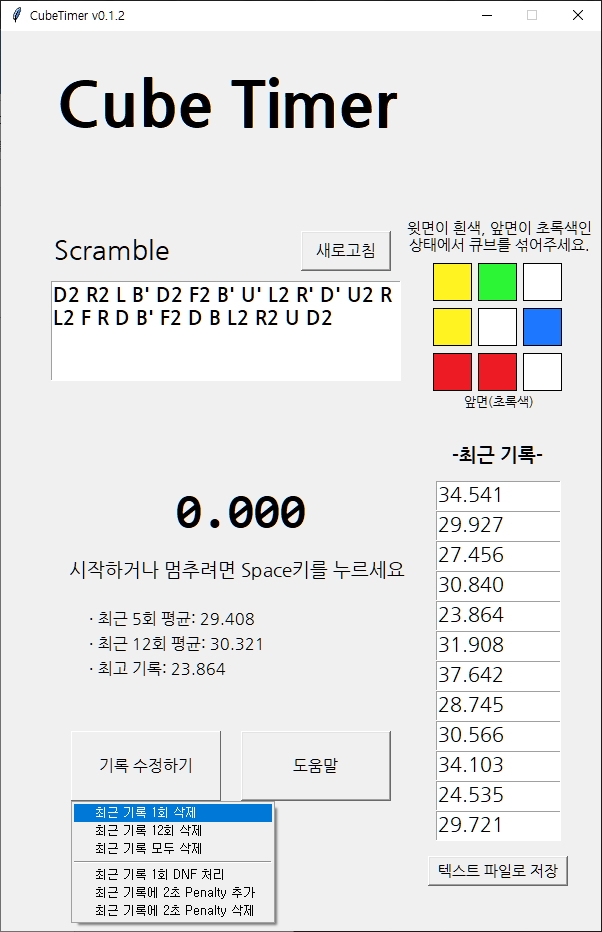
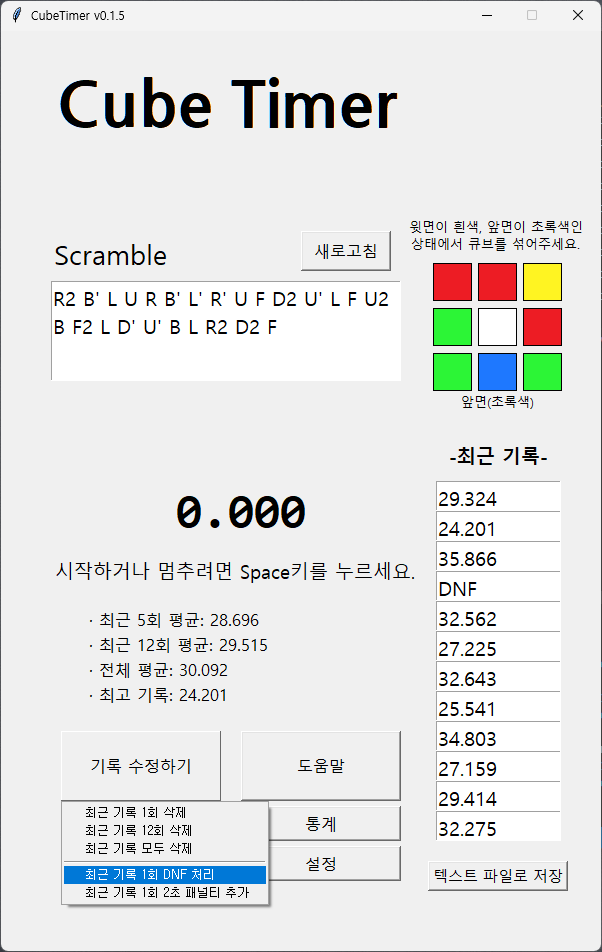
CubeTimer_v0.1.5

diff --git a/Cube_Timer.py b/Cube_Timer.py
@@ -1,5 +1,5 @@
 #-*- coding:utf-8 -*-
-# Cube_Timer v0.1.4 --------- by SnapFlip20
+# Cube_Timer v0.1.5 --------- by SnapFlip20
 
 import tkinter as tk
 from tkinter import messagebox
@@ -19,7 +19,7 @@ except ModuleNotFoundError:
     sys.stderr.write('Error: cannot find showScrambleImg.py.\n')
 
 # ---------------------------------------------------------------- #
-version = 'v0.1.4'
+version = 'v0.1.5'
 # -push.bat------------------------------------------------------- #
 def pusher(): # batch file generator for Github push
     fbat = open('push.bat', 'w')
@@ -148,7 +148,7 @@ def load_record():
         rec1, rec2, rec3, rec4, rec5, rec6, rec7, rec8, rec9, rec10, rec11, rec12
     
     record_info1 = tk.Label(mainWindow, font = ('맑은 고딕 bold', 14), text = '-최근 기록-')
-    record_info1.place(x = 448, y = 410)
+    record_info1.place(x = 445, y = 410)
 
     rec1 = tk.Text(mainWindow, font = ('맑은 고딕', 15), wrap = 'word', state = 'normal')
     rec1.place(x = 435, y = 450, width = 125, height = 30)
@@ -186,7 +186,8 @@ def load_record():
                 records.append('')
         
         for (i, j) in enumerate(records):
-            if j == 0: records[i] = 'DNF'
+            if j.rstrip() == '0':
+                records[i] = 'DNF'
         
         rec1.insert(tk.INSERT, records[0])
         rec1.configure(state = 'disabled')
@@ -249,7 +250,10 @@ def calcAvg5():
     global five_avgtxt
 
     avg5 = calc5()
-    five_avgtxt = tk.Label(mainWindow, font = ('맑은 고딕', 12), text = '· 최근 5회 평균: '+'%.3lf'%avg5)
+    if avg5 == 'DNF':
+        five_avgtxt = tk.Label(mainWindow, font = ('맑은 고딕', 12), text = '· 최근 5회 평균: D N F')
+    else:
+        five_avgtxt = tk.Label(mainWindow, font = ('맑은 고딕', 12), text = '· 최근 5회 평균: '+'%.3lf'%avg5)
     five_avgtxt.place(x = 85, y = 575)
 
 def calc12():
@@ -283,7 +287,10 @@ def calcAvg12():
     global twelve_avgtxt
 
     avg12 = calc12()
-    twelve_avgtxt = tk.Label(mainWindow, font = ('맑은 고딕', 12), text = '· 최근 12회 평균: '+'%.3lf'%avg12)
+    if avg12 == 'DNF':
+        twelve_avgtxt = tk.Label(mainWindow, font = ('맑은 고딕', 12), text = '· 최근 12회 평균: D N F')
+    else:
+        twelve_avgtxt = tk.Label(mainWindow, font = ('맑은 고딕', 12), text = '· 최근 12회 평균: '+'%.3lf'%avg12)
     twelve_avgtxt.place(x = 85, y = 600)
 
 def calcAvgall():
@@ -303,13 +310,22 @@ def calcAvgall():
             if len(all_record) == 0:
                 avgall = 0
             else:
-                avgall = statistics.mean(all_record)
+                if 0 in all_record:
+                    if len(all_record) == 1:
+                        avgall = 0
+                    else:
+                        avgall = sum(all_record)/(len(all_record)-1)
+                else:
+                    avgall = statistics.mean(all_record)
         farec.close()
 
-        all_avgtxt = tk.Label(mainWindow, font = ('맑은 고딕', 12), text = '· 전체 평균: '+'%.3lf'%avgall)
+        if avgall == 'DNF':
+            all_avgtxt = tk.Label(mainWindow, font = ('맑은 고딕', 12), text = '· 전체 평균: D N F')
+        else:
+            all_avgtxt = tk.Label(mainWindow, font = ('맑은 고딕', 12), text = '· 전체 평균: '+'%.3lf'%avgall)
         all_avgtxt.place(x = 85, y = 625)
     except:
-        sys.stderr.write('Error: There was an error while calculating all avreage.\n')
+        sys.stderr.write('Error: There was an error while calculating all average.\n')
         messagebox.showerror(title = 'Exception', message = '"record.cbtm" 을(를) 읽는 동안 문제가 발생했습니다.\n파일을 임의로 수정한 적이 있었는지 확인해보십시오.')
         farec.close()
         sys.exit()
@@ -338,7 +354,10 @@ def best_score():
             else:
                 all_record.sort()
                 best = all_record[1] if all_record[0] == 0 else all_record[0]
-        best_scoretxt = tk.Label(mainWindow, font = ('맑은 고딕', 12), text = '· 최고 기록: '+'%.3lf'%best)
+        if best == 'DNF':
+            best_scoretxt = tk.Label(mainWindow, font = ('맑은 고딕', 12), text = '· 최고 기록: D N F')
+        else:
+            best_scoretxt = tk.Label(mainWindow, font = ('맑은 고딕', 12), text = '· 최고 기록: '+'%.3lf'%best)
         best_scoretxt.place(x = 85, y = 650)
         farec.close()
             
@@ -402,6 +421,25 @@ def del_recordall(): # 측정된 모든 기록 삭제
         messagebox.showerror(title = 'Exception', message = '모든 기록 삭제를 수행할 수 없습니다.')
         farec.close()
 
+def dnf_add(): # 최근 기록에 DNF 추가
+    farec = open('record.cbtm', 'r')
+    all_record = [i.rstrip() for i in farec.readlines()]
+    farec.close()
+
+    if len(all_record) == 0:
+        messagebox.showerror(title = 'Exception', message = 'DNF 처리할 기록이 없습니다.')
+    elif all_record[-1] == '0':
+        messagebox.showerror(title = 'Exception', message = '이미 DNF 처리된 기록입니다.')
+    else:
+        all_record[-1] = '0' 
+
+    fwrec = open('record.cbtm', 'w')
+    for i in all_record:
+        fwrec.write(i + '\n')
+    fwrec.close()
+
+    bundle1()
+
 def record_to_txt(): # 최근 기록을 txt파일로 추출
     comming_soon()
     '''
@@ -444,7 +482,7 @@ class Timer(tk.Frame): # 메인 윈도우 구성
     def __init__(self):
         global mainWindow, time_running, start_time, stop_time, previous_time, elapsed_time,\
             time_txt, logo_image,\
-                penalty_bt, penalty_bt_menu, help_bt, recordtxt_bt
+                penalty_bt, penalty_bt_menu, help_bt, statis_bt, setting_bt, recordtxt_bt
         
         mainWindow.title('CubeTimer ' + version)
         time_running = False
@@ -484,25 +522,28 @@ class Timer(tk.Frame): # 메인 윈도우 구성
 
         # button
         penalty_bt = tk.Menubutton(mainWindow, font = ('맑은 고딕', 12), text = '기록 수정하기', relief = 'raised', direction = 'below')
-        penalty_bt.place(x = 70, y = 700, width = 150, height = 70)
+        penalty_bt.place(x = 60, y = 700, width = 160, height = 70)
         penalty_bt_menu = tk.Menu(penalty_bt, tearoff = 0)
         penalty_bt_menu.add_command(label = '최근 기록 1회 삭제', command = del_record1)
         penalty_bt_menu.add_command(label = '최근 기록 12회 삭제', command = del_record12)
         penalty_bt_menu.add_command(label = '최근 기록 모두 삭제', command = del_recordall)
         penalty_bt_menu.add_separator()
-        penalty_bt_menu.add_command(label = '최근 기록 1회 DNF 처리', command = comming_soon)
-        penalty_bt_menu.add_command(label = '최근 기록에 2초 Penalty 추가', command = comming_soon)
-        penalty_bt_menu.add_command(label = '최근 기록에 2초 Penalty 삭제', command = comming_soon)
+        penalty_bt_menu.add_command(label = '최근 기록 1회 DNF 처리', command = dnf_add)
+        penalty_bt_menu.add_command(label = '최근 기록 1회 2초 패널티 추가', command = comming_soon)
         penalty_bt["menu"] = penalty_bt_menu
 
         help_bt = tk.Button(mainWindow, font = ('맑은 고딕', 12), text = '도움말', command = help_win)
-        help_bt.place(x = 240, y = 700, width = 150, height = 70)
+        help_bt.place(x = 240, y = 700, width = 160, height = 70)
+
+        statis_bt = tk.Button(mainWindow, font = ('맑은 고딕', 12), text = '통계', command = comming_soon)
+        statis_bt.place(x = 240, y = 775, width = 160, height = 35)
+
+        setting_bt = tk.Button(mainWindow, font = ('맑은 고딕', 12), text = '설정', command = comming_soon) 
+        setting_bt.place(x = 240, y = 815, width = 160, height = 35)
 
         recordtxt_bt = tk.Button(mainWindow, font = ('맑은 고딕', 11), text = '텍스트 파일로 저장', command = record_to_txt)
-        recordtxt_bt.place(x = 427, y = 825, width = 140, height = 30)
+        recordtxt_bt.place(x = 427, y = 830, width = 140, height = 30)
         # ---Main UI setting end-----------------------------------------------
-
-        sys.stdout.write('Timer.__init__() is executed.\n')
 
     def _debug(self):
         global time_running, start_time, stop_time, previous_time, elapsed_time, time_txt
@@ -517,7 +558,7 @@ def help_win():
     helpWindow = tk.Tk()
     helpWindow.geometry("400x600")
     helpWindow.resizable(width = False, height = False)
-    help_txt1 = tk.Label(helpWindow, font = ('맑은 고딕', 12), text = '업데이트 예정입니다.')
+    help_txt1 = tk.Label(helpWindow, font = ('맑은 고딕', 12), text = '업데이트 예정입니다.\n\n제작자: SnapFlip20')
     help_txt1.place(x = 125, y = 200)
     helpWindow.mainloop()
 
@@ -528,7 +569,7 @@ def comming_soon():
 # -run------------------------------------------------------------ #
 if __name__ == "__main__":
     mainWindow = tk.Tk()
-    mainWindow.geometry("600x900+100-100")
+    mainWindow.geometry("600x920+100-100")
     mainWindow.resizable(width = False, height = False)
 
     pusher()

diff --git a/README.md b/README.md
@@ -9,12 +9,12 @@
 * 스크램블대로 섞었을 때 나오는 큐브의 윗면 형태를 이미지로 표시
 * 최근 5회/12회/전체 기록의 평균 표시
 * 최고 기록 표시
-* 현재 기록을 실격(DNF) 처리하거나 패널티 시간 추가/제거 기능
+* 현재 기록을 실격(DNF) 처리하거나 2초 패널티 추가 기능
 * 측정된 기록들은 별도의 파일로 관리
 * 최근 기록들을 txt파일로 내보내기 기능
 ## 언젠가 추가할 기능
 * 측정 시간을 시:분:초 형식으로 표시되게끔 수정
-* 미리보기 15초 모드 추가
+* 15초 미리보기 모드 추가
 * 모드 변경 기능(222, 444, 다면체 등등)
 * 기록 분석/통계 기능
 * UI를 좀 더 깔끔하고 예쁘게....

diff --git a/todo.md b/todo.md
@@ -1,7 +1,9 @@
 # TODO
 
 * 스크램블 생성 알고리즘 강화하기
-* 최근 기록들을 txt파일로 저장해두는 기능 구현
-* 기록 분석(평균 변화율 등)
-* 기록 측정 중 1분을 경과했을 경우 타이머가 분 단위로 변경되는 기능 구현
+* 최근 기록들을 txt파일로 내보내는 기능 구현
+* 기록 분석/통계(평균 변화율 등)
+* 타이머 표시 형태를 s:ms 에서 h:m:s.ms 로 변경
+* 도움말 작성하기
+* 15초 미리보기 기능 구현(2초 패널티, DNF 자동 처리 기능도 구현)
 * 최대한 많은 예외 상황 찾아내기(try except 문으로 처리하기)

diff --git a/update_log.md b/update_log.md
@@ -50,3 +50,6 @@
     * 전체 평균 표시
 * 0.1.4(2022/10/13)
     * 약간의 버그 수정, 코드 정리
+* 0.1.5(2022/10/13)
+    * DNF 처리 기능 추가
+    * 설정, 통계 버튼 추가, 버튼 위치 변경
